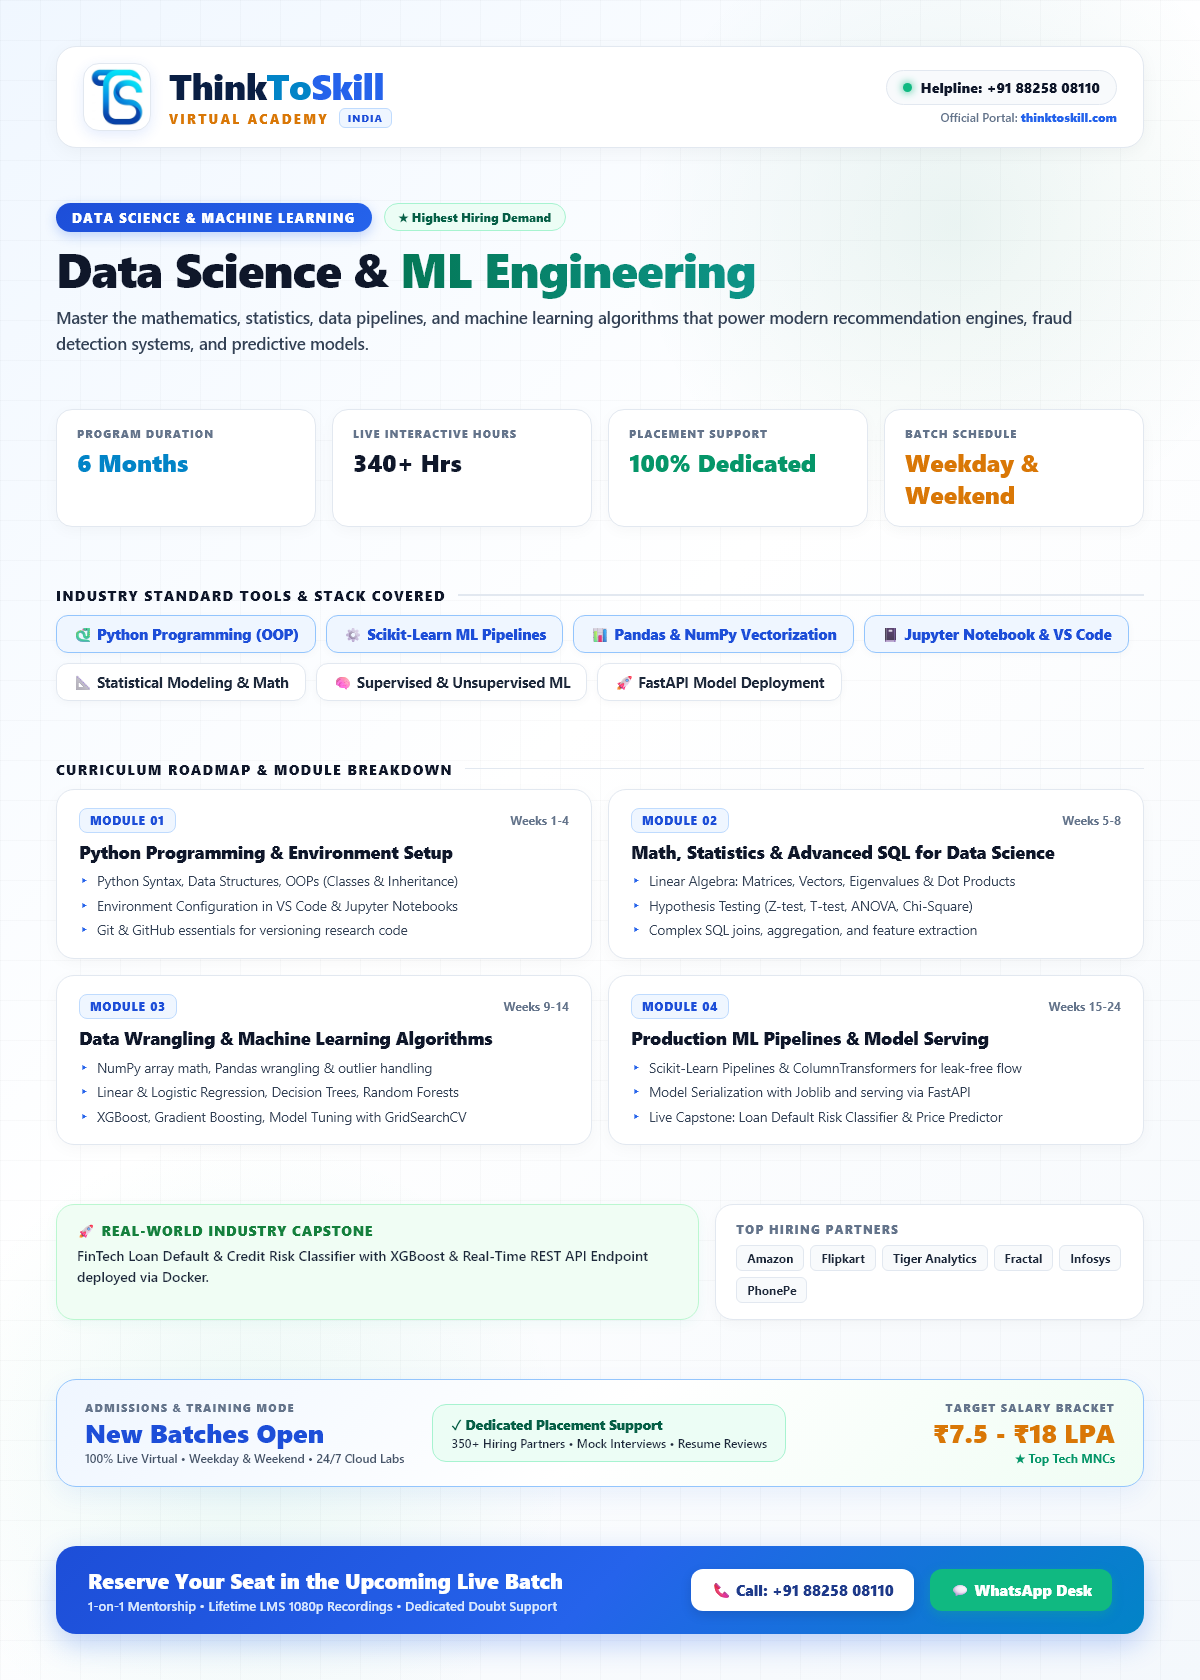
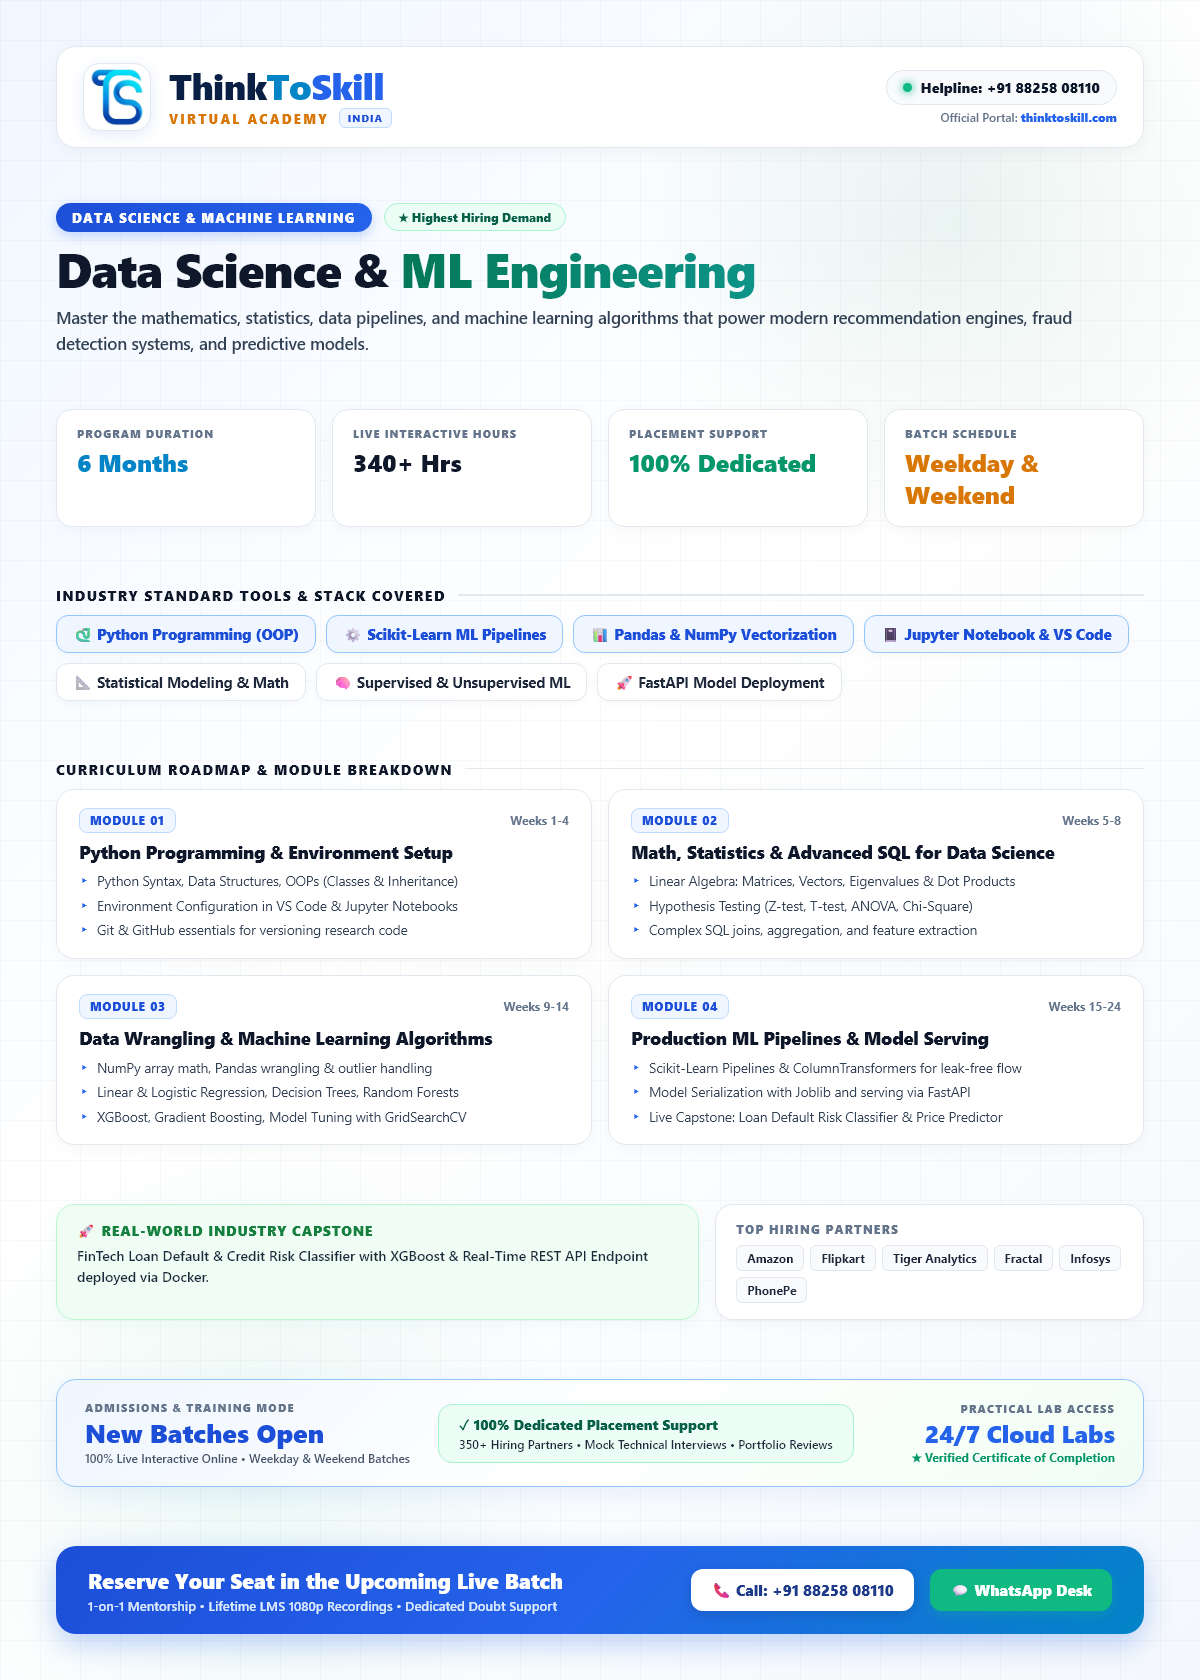
Update brochures: remove salary benchmark brackets and milestone pay text, and bump asset cache version to 20261126.4

Changed region(s): [[0.37, 0.8357, 0.6783, 0.8667], [0.7708, 0.8357, 0.925, 0.8976]]

diff --git a/brochures.html b/brochures.html
@@ -33,7 +33,7 @@
       }
     }
   </script>
-  <link rel="stylesheet" href="css/custom.css?v=20261126.3" />
+  <link rel="stylesheet" href="css/custom.css?v=20261126.4" />
 
   <!-- Schema.org JSON-LD Structured Data for Brochures -->
   <script type="application/ld+json">
@@ -273,7 +273,7 @@
       <!-- 1. Data Analytics & BI -->
       <div class="brochure-card bg-white rounded-3xl overflow-hidden border border-slate-200/90 shadow-md hover:shadow-xl transition-all duration-300 flex flex-col group" data-category="data">
         <div class="relative bg-slate-100 overflow-hidden aspect-[3/4] cursor-pointer border-b border-slate-100" onclick="openLightbox('assets/brochures/brochure-data-analytics.png', 'Data Analytics & Business Intelligence Masterclass')">
-          <img src="assets/brochures/brochure-data-analytics.png?v=20261126.3" alt="Data Analytics & BI Brochure" class="w-full h-full object-cover group-hover:scale-105 transition-transform duration-500" loading="lazy" />
+          <img src="assets/brochures/brochure-data-analytics.png?v=20261126.4" alt="Data Analytics & BI Brochure" class="w-full h-full object-cover group-hover:scale-105 transition-transform duration-500" loading="lazy" />
           <div class="absolute inset-0 bg-gradient-to-t from-slate-950/80 via-transparent to-transparent opacity-0 group-hover:opacity-100 transition-opacity flex items-end p-6">
             <span class="inline-flex items-center gap-2 text-white font-bold text-xs bg-blue-600/90 px-4 py-2 rounded-xl backdrop-blur-md">
               <svg class="w-4 h-4" fill="none" stroke="currentColor" viewBox="0 0 24 24"><path stroke-linecap="round" stroke-linejoin="round" stroke-width="2" d="M15 12a3 3 0 11-6 0 3 3 0 016 0z"></path><path stroke-linecap="round" stroke-linejoin="round" stroke-width="2" d="M2.458 12C3.732 7.943 7.523 5 12 5c4.478 0 8.268 2.943 9.542 7-1.274 4.057-5.064 7-9.542 7-4.477 0-8.268-2.943-9.542-7z"></path></svg>
@@ -312,7 +312,7 @@
       <!-- 2. Data Science & ML -->
       <div class="brochure-card bg-white rounded-3xl overflow-hidden border border-slate-200/90 shadow-md hover:shadow-xl transition-all duration-300 flex flex-col group" data-category="ai">
         <div class="relative bg-slate-100 overflow-hidden aspect-[3/4] cursor-pointer border-b border-slate-100" onclick="openLightbox('assets/brochures/brochure-data-science.png', 'Data Science & Machine Learning Engineering Program')">
-          <img src="assets/brochures/brochure-data-science.png?v=20261126.3" alt="Data Science & ML Brochure" class="w-full h-full object-cover group-hover:scale-105 transition-transform duration-500" loading="lazy" />
+          <img src="assets/brochures/brochure-data-science.png?v=20261126.4" alt="Data Science & ML Brochure" class="w-full h-full object-cover group-hover:scale-105 transition-transform duration-500" loading="lazy" />
           <div class="absolute inset-0 bg-gradient-to-t from-slate-950/80 via-transparent to-transparent opacity-0 group-hover:opacity-100 transition-opacity flex items-end p-6">
             <span class="inline-flex items-center gap-2 text-white font-bold text-xs bg-emerald-600/90 px-4 py-2 rounded-xl backdrop-blur-md">
               <svg class="w-4 h-4" fill="none" stroke="currentColor" viewBox="0 0 24 24"><path stroke-linecap="round" stroke-linejoin="round" stroke-width="2" d="M15 12a3 3 0 11-6 0 3 3 0 016 0z"></path><path stroke-linecap="round" stroke-linejoin="round" stroke-width="2" d="M2.458 12C3.732 7.943 7.523 5 12 5c4.478 0 8.268 2.943 9.542 7-1.274 4.057-5.064 7-9.542 7-4.477 0-8.268-2.943-9.542-7z"></path></svg>
@@ -351,7 +351,7 @@
       <!-- 3. AI & Deep Learning -->
       <div class="brochure-card bg-white rounded-3xl overflow-hidden border border-slate-200/90 shadow-md hover:shadow-xl transition-all duration-300 flex flex-col group" data-category="ai">
         <div class="relative bg-slate-100 overflow-hidden aspect-[3/4] cursor-pointer border-b border-slate-100" onclick="openLightbox('assets/brochures/brochure-ai-deep-learning.png', 'Artificial Intelligence & Deep Learning Master\'s')">
-          <img src="assets/brochures/brochure-ai-deep-learning.png?v=20261126.3" alt="AI & Deep Learning Brochure" class="w-full h-full object-cover group-hover:scale-105 transition-transform duration-500" loading="lazy" />
+          <img src="assets/brochures/brochure-ai-deep-learning.png?v=20261126.4" alt="AI & Deep Learning Brochure" class="w-full h-full object-cover group-hover:scale-105 transition-transform duration-500" loading="lazy" />
           <div class="absolute inset-0 bg-gradient-to-t from-slate-950/80 via-transparent to-transparent opacity-0 group-hover:opacity-100 transition-opacity flex items-end p-6">
             <span class="inline-flex items-center gap-2 text-white font-bold text-xs bg-purple-600/90 px-4 py-2 rounded-xl backdrop-blur-md">
               <svg class="w-4 h-4" fill="none" stroke="currentColor" viewBox="0 0 24 24"><path stroke-linecap="round" stroke-linejoin="round" stroke-width="2" d="M15 12a3 3 0 11-6 0 3 3 0 016 0z"></path><path stroke-linecap="round" stroke-linejoin="round" stroke-width="2" d="M2.458 12C3.732 7.943 7.523 5 12 5c4.478 0 8.268 2.943 9.542 7-1.274 4.057-5.064 7-9.542 7-4.477 0-8.268-2.943-9.542-7z"></path></svg>
@@ -390,7 +390,7 @@
       <!-- 4. Cloud Computing & DevOps -->
       <div class="brochure-card bg-white rounded-3xl overflow-hidden border border-slate-200/90 shadow-md hover:shadow-xl transition-all duration-300 flex flex-col group" data-category="cloud">
         <div class="relative bg-slate-100 overflow-hidden aspect-[3/4] cursor-pointer border-b border-slate-100" onclick="openLightbox('assets/brochures/brochure-cloud-devops.png', 'Cloud Computing (AWS) & DevOps Engineering Bootcamp')">
-          <img src="assets/brochures/brochure-cloud-devops.png?v=20261126.3" alt="Cloud & DevOps Brochure" class="w-full h-full object-cover group-hover:scale-105 transition-transform duration-500" loading="lazy" />
+          <img src="assets/brochures/brochure-cloud-devops.png?v=20261126.4" alt="Cloud & DevOps Brochure" class="w-full h-full object-cover group-hover:scale-105 transition-transform duration-500" loading="lazy" />
           <div class="absolute inset-0 bg-gradient-to-t from-slate-950/80 via-transparent to-transparent opacity-0 group-hover:opacity-100 transition-opacity flex items-end p-6">
             <span class="inline-flex items-center gap-2 text-white font-bold text-xs bg-amber-600/90 px-4 py-2 rounded-xl backdrop-blur-md">
               <svg class="w-4 h-4" fill="none" stroke="currentColor" viewBox="0 0 24 24"><path stroke-linecap="round" stroke-linejoin="round" stroke-width="2" d="M15 12a3 3 0 11-6 0 3 3 0 016 0z"></path><path stroke-linecap="round" stroke-linejoin="round" stroke-width="2" d="M2.458 12C3.732 7.943 7.523 5 12 5c4.478 0 8.268 2.943 9.542 7-1.274 4.057-5.064 7-9.542 7-4.477 0-8.268-2.943-9.542-7z"></path></svg>
@@ -429,7 +429,7 @@
       <!-- 5. Python Programming & SQL -->
       <div class="brochure-card bg-white rounded-3xl overflow-hidden border border-slate-200/90 shadow-md hover:shadow-xl transition-all duration-300 flex flex-col group" data-category="python">
         <div class="relative bg-slate-100 overflow-hidden aspect-[3/4] cursor-pointer border-b border-slate-100" onclick="openLightbox('assets/brochures/brochure-python-sql.png', 'Python Programming & SQL Databases Foundation Course')">
-          <img src="assets/brochures/brochure-python-sql.png?v=20261126.3" alt="Python & SQL Brochure" class="w-full h-full object-cover group-hover:scale-105 transition-transform duration-500" loading="lazy" />
+          <img src="assets/brochures/brochure-python-sql.png?v=20261126.4" alt="Python & SQL Brochure" class="w-full h-full object-cover group-hover:scale-105 transition-transform duration-500" loading="lazy" />
           <div class="absolute inset-0 bg-gradient-to-t from-slate-950/80 via-transparent to-transparent opacity-0 group-hover:opacity-100 transition-opacity flex items-end p-6">
             <span class="inline-flex items-center gap-2 text-white font-bold text-xs bg-cyan-600/90 px-4 py-2 rounded-xl backdrop-blur-md">
               <svg class="w-4 h-4" fill="none" stroke="currentColor" viewBox="0 0 24 24"><path stroke-linecap="round" stroke-linejoin="round" stroke-width="2" d="M15 12a3 3 0 11-6 0 3 3 0 016 0z"></path><path stroke-linecap="round" stroke-linejoin="round" stroke-width="2" d="M2.458 12C3.732 7.943 7.523 5 12 5c4.478 0 8.268 2.943 9.542 7-1.274 4.057-5.064 7-9.542 7-4.477 0-8.268-2.943-9.542-7z"></path></svg>
@@ -468,7 +468,7 @@
       <!-- 6. Executive Diploma Architect -->
       <div class="brochure-card bg-white rounded-3xl overflow-hidden border border-slate-200/90 shadow-md hover:shadow-xl transition-all duration-300 flex flex-col group" data-category="ai">
         <div class="relative bg-slate-100 overflow-hidden aspect-[3/4] cursor-pointer border-b border-slate-100" onclick="openLightbox('assets/brochures/brochure-diploma-architect.png', 'Executive Diploma in AI, Data Science & Cloud DevOps Architect')">
-          <img src="assets/brochures/brochure-diploma-architect.png?v=20261126.3" alt="Executive Diploma Architect Brochure" class="w-full h-full object-cover group-hover:scale-105 transition-transform duration-500" loading="lazy" />
+          <img src="assets/brochures/brochure-diploma-architect.png?v=20261126.4" alt="Executive Diploma Architect Brochure" class="w-full h-full object-cover group-hover:scale-105 transition-transform duration-500" loading="lazy" />
           <div class="absolute inset-0 bg-gradient-to-t from-slate-950/80 via-transparent to-transparent opacity-0 group-hover:opacity-100 transition-opacity flex items-end p-6">
             <span class="inline-flex items-center gap-2 text-white font-bold text-xs bg-amber-600/90 px-4 py-2 rounded-xl backdrop-blur-md">
               <svg class="w-4 h-4" fill="none" stroke="currentColor" viewBox="0 0 24 24"><path stroke-linecap="round" stroke-linejoin="round" stroke-width="2" d="M15 12a3 3 0 11-6 0 3 3 0 016 0z"></path><path stroke-linecap="round" stroke-linejoin="round" stroke-width="2" d="M2.458 12C3.732 7.943 7.523 5 12 5c4.478 0 8.268 2.943 9.542 7-1.274 4.057-5.064 7-9.542 7-4.477 0-8.268-2.943-9.542-7z"></path></svg>
@@ -507,7 +507,7 @@
       <!-- 7. SAP S/4HANA Finance (FI/CO) -->
       <div class="brochure-card bg-white rounded-3xl overflow-hidden border border-slate-200/90 shadow-md hover:shadow-xl transition-all duration-300 flex flex-col group" data-category="sap">
         <div class="relative bg-slate-100 overflow-hidden aspect-[3/4] cursor-pointer border-b border-slate-100" onclick="openLightbox('assets/brochures/brochure-sap-finance.png', 'SAP S/4HANA Finance (FI/CO) Consultant Program')">
-          <img src="assets/brochures/brochure-sap-finance.png?v=20261126.3" alt="SAP Finance Brochure" class="w-full h-full object-cover group-hover:scale-105 transition-transform duration-500" loading="lazy" />
+          <img src="assets/brochures/brochure-sap-finance.png?v=20261126.4" alt="SAP Finance Brochure" class="w-full h-full object-cover group-hover:scale-105 transition-transform duration-500" loading="lazy" />
           <div class="absolute inset-0 bg-gradient-to-t from-slate-950/80 via-transparent to-transparent opacity-0 group-hover:opacity-100 transition-opacity flex items-end p-6">
             <span class="inline-flex items-center gap-2 text-white font-bold text-xs bg-blue-600/90 px-4 py-2 rounded-xl backdrop-blur-md">
               <svg class="w-4 h-4" fill="none" stroke="currentColor" viewBox="0 0 24 24"><path stroke-linecap="round" stroke-linejoin="round" stroke-width="2" d="M15 12a3 3 0 11-6 0 3 3 0 016 0z"></path><path stroke-linecap="round" stroke-linejoin="round" stroke-width="2" d="M2.458 12C3.732 7.943 7.523 5 12 5c4.478 0 8.268 2.943 9.542 7-1.274 4.057-5.064 7-9.542 7-4.477 0-8.268-2.943-9.542-7z"></path></svg>
@@ -546,7 +546,7 @@
       <!-- 8. SAP S/4HANA MM -->
       <div class="brochure-card bg-white rounded-3xl overflow-hidden border border-slate-200/90 shadow-md hover:shadow-xl transition-all duration-300 flex flex-col group" data-category="sap">
         <div class="relative bg-slate-100 overflow-hidden aspect-[3/4] cursor-pointer border-b border-slate-100" onclick="openLightbox('assets/brochures/brochure-sap-mm.png', 'SAP S/4HANA Materials Management (MM) Program')">
-          <img src="assets/brochures/brochure-sap-mm.png?v=20261126.3" alt="SAP MM Brochure" class="w-full h-full object-cover group-hover:scale-105 transition-transform duration-500" loading="lazy" />
+          <img src="assets/brochures/brochure-sap-mm.png?v=20261126.4" alt="SAP MM Brochure" class="w-full h-full object-cover group-hover:scale-105 transition-transform duration-500" loading="lazy" />
           <div class="absolute inset-0 bg-gradient-to-t from-slate-950/80 via-transparent to-transparent opacity-0 group-hover:opacity-100 transition-opacity flex items-end p-6">
             <span class="inline-flex items-center gap-2 text-white font-bold text-xs bg-emerald-600/90 px-4 py-2 rounded-xl backdrop-blur-md">
               <svg class="w-4 h-4" fill="none" stroke="currentColor" viewBox="0 0 24 24"><path stroke-linecap="round" stroke-linejoin="round" stroke-width="2" d="M15 12a3 3 0 11-6 0 3 3 0 016 0z"></path><path stroke-linecap="round" stroke-linejoin="round" stroke-width="2" d="M2.458 12C3.732 7.943 7.523 5 12 5c4.478 0 8.268 2.943 9.542 7-1.274 4.057-5.064 7-9.542 7-4.477 0-8.268-2.943-9.542-7z"></path></svg>
@@ -585,7 +585,7 @@
       <!-- 9. SAP S/4HANA Integrated ERP -->
       <div class="brochure-card bg-white rounded-3xl overflow-hidden border border-slate-200/90 shadow-md hover:shadow-xl transition-all duration-300 flex flex-col group" data-category="sap">
         <div class="relative bg-slate-100 overflow-hidden aspect-[3/4] cursor-pointer border-b border-slate-100" onclick="openLightbox('assets/brochures/brochure-sap-integrated.png', 'SAP S/4HANA Integrated ERP (Finance & MM)')">
-          <img src="assets/brochures/brochure-sap-integrated.png?v=20261126.3" alt="SAP Integrated ERP Brochure" class="w-full h-full object-cover group-hover:scale-105 transition-transform duration-500" loading="lazy" />
+          <img src="assets/brochures/brochure-sap-integrated.png?v=20261126.4" alt="SAP Integrated ERP Brochure" class="w-full h-full object-cover group-hover:scale-105 transition-transform duration-500" loading="lazy" />
           <div class="absolute inset-0 bg-gradient-to-t from-slate-950/80 via-transparent to-transparent opacity-0 group-hover:opacity-100 transition-opacity flex items-end p-6">
             <span class="inline-flex items-center gap-2 text-white font-bold text-xs bg-indigo-600/90 px-4 py-2 rounded-xl backdrop-blur-md">
               <svg class="w-4 h-4" fill="none" stroke="currentColor" viewBox="0 0 24 24"><path stroke-linecap="round" stroke-linejoin="round" stroke-width="2" d="M15 12a3 3 0 11-6 0 3 3 0 016 0z"></path><path stroke-linecap="round" stroke-linejoin="round" stroke-width="2" d="M2.458 12C3.732 7.943 7.523 5 12 5c4.478 0 8.268 2.943 9.542 7-1.274 4.057-5.064 7-9.542 7-4.477 0-8.268-2.943-9.542-7z"></path></svg>
@@ -703,8 +703,8 @@
   <div id="toast-container"></div>
 
   <!-- Script for Lightbox & Filters -->
-  <script src="js/courses-data.js?v=20261126.3"></script>
-  <script src="js/main.js?v=20261126.3"></script>
+  <script src="js/courses-data.js?v=20261126.4"></script>
+  <script src="js/main.js?v=20261126.4"></script>
   <script>
     function filterBrochures(category) {
       const cards = document.querySelectorAll('.brochure-card');
@@ -777,4 +777,5 @@
   </script>
 </body>
 </html>
+
 

diff --git a/index.html b/index.html
@@ -48,7 +48,7 @@
   </script>
 
   <!-- Custom CSS -->
-  <link rel="stylesheet" href="css/custom.css?v=20261126.3" />
+  <link rel="stylesheet" href="css/custom.css?v=20261126.4" />
 
   <!-- Schema.org JSON-LD Structured Data for SEO -->
   <script type="application/ld+json">
@@ -1185,8 +1185,8 @@
   <div id="toast-container"></div>
 
   <!-- Scripts -->
-  <script src="js/courses-data.js?v=20261126.3"></script>
-  <script src="js/main.js?v=20261126.3"></script>
+  <script src="js/courses-data.js?v=20261126.4"></script>
+  <script src="js/main.js?v=20261126.4"></script>
 
   <script>
     // Student Registration Details submit handler
@@ -1266,4 +1266,5 @@
   </script>
 </body>
 </html>
+
 

diff --git a/404.html b/404.html
@@ -14,7 +14,7 @@
   <meta name="twitter:image" content="https://thinktoskill.com/assets/thinktoskill-ts-icon.jpg" />
   <link rel="icon" type="image/jpeg" href="assets/thinktoskill-ts-icon.jpg" />
   <script src="https://cdn.tailwindcss.com"></script>
-  <link rel="stylesheet" href="css/custom.css?v=20261126.3" />
+  <link rel="stylesheet" href="css/custom.css?v=20261126.4" />
 </head>
 <body class="bg-slate-50 text-slate-800 antialiased min-h-screen flex items-center justify-center">
   <div class="text-center max-w-lg mx-auto px-6 py-20">
@@ -29,4 +29,5 @@
   </div>
 </body>
 </html>
+
 

diff --git a/courses.html b/courses.html
@@ -33,7 +33,7 @@
       }
     }
   </script>
-  <link rel="stylesheet" href="css/custom.css?v=20261126.3" />
+  <link rel="stylesheet" href="css/custom.css?v=20261126.4" />
 
   <!-- Schema.org JSON-LD Structured Data for Programs -->
   <script type="application/ld+json">
@@ -504,8 +504,9 @@
   </footer>
 
   <div id="toast-container"></div>
-  <script src="js/courses-data.js?v=20261126.3"></script>
-  <script src="js/main.js?v=20261126.3"></script>
+  <script src="js/courses-data.js?v=20261126.4"></script>
+  <script src="js/main.js?v=20261126.4"></script>
 </body>
 </html>
+
 

diff --git a/admissions.html b/admissions.html
@@ -33,7 +33,7 @@
       }
     }
   </script>
-  <link rel="stylesheet" href="css/custom.css?v=20261126.3" />
+  <link rel="stylesheet" href="css/custom.css?v=20261126.4" />
 
   <!-- Schema.org JSON-LD Structured Data for Admissions -->
   <script type="application/ld+json">
@@ -452,8 +452,9 @@
   </a>
 
   <div id="toast-container"></div>
-  <script src="js/courses-data.js?v=20261126.3"></script>
-  <script src="js/main.js?v=20261126.3"></script>
+  <script src="js/courses-data.js?v=20261126.4"></script>
+  <script src="js/main.js?v=20261126.4"></script>
 </body>
 </html>
+
 

diff --git a/privacy.html b/privacy.html
@@ -20,7 +20,7 @@
   <meta name="twitter:description" content="Privacy Policy for ThinkToSkill Virtual Academy - how we collect, use, and protect your personal information." />
   <meta name="twitter:image" content="https://thinktoskill.com/assets/thinktoskill-ts-icon.jpg" />
   <script src="https://cdn.tailwindcss.com"></script>
-  <link rel="stylesheet" href="css/custom.css?v=20261126.3" />
+  <link rel="stylesheet" href="css/custom.css?v=20261126.4" />
 </head>
 <body class="bg-slate-50 text-slate-800 antialiased">
 
@@ -89,4 +89,5 @@
   </footer>
 </body>
 </html>
+
 

diff --git a/refund.html b/refund.html
@@ -20,7 +20,7 @@
   <meta name="twitter:description" content="7-Day 100% Money-Back Guarantee and Cancellation Policy for ThinkToSkill Virtual Academy India." />
   <meta name="twitter:image" content="https://thinktoskill.com/assets/thinktoskill-ts-icon.jpg" />
   <script src="https://cdn.tailwindcss.com"></script>
-  <link rel="stylesheet" href="css/custom.css?v=20261126.3" />
+  <link rel="stylesheet" href="css/custom.css?v=20261126.4" />
 </head>
 <body class="bg-slate-50 text-slate-800 antialiased">
 
@@ -82,4 +82,5 @@
   </footer>
 </body>
 </html>
+
 

diff --git a/placement-policy.html b/placement-policy.html
@@ -20,7 +20,7 @@
   <meta name="twitter:description" content="Placement Assistance Policy for ThinkToSkill Virtual Academy India." />
   <meta name="twitter:image" content="https://thinktoskill.com/assets/thinktoskill-ts-icon.jpg" />
   <script src="https://cdn.tailwindcss.com"></script>
-  <link rel="stylesheet" href="css/custom.css?v=20261126.3" />
+  <link rel="stylesheet" href="css/custom.css?v=20261126.4" />
 </head>
 <body class="bg-slate-50 text-slate-800 antialiased">
 
@@ -80,4 +80,5 @@
   </footer>
 </body>
 </html>
+
 

diff --git a/terms.html b/terms.html
@@ -20,7 +20,7 @@
   <meta name="twitter:description" content="Terms of Service for ThinkToSkill Virtual Academy India." />
   <meta name="twitter:image" content="https://thinktoskill.com/assets/thinktoskill-ts-icon.jpg" />
   <script src="https://cdn.tailwindcss.com"></script>
-  <link rel="stylesheet" href="css/custom.css?v=20261126.3" />
+  <link rel="stylesheet" href="css/custom.css?v=20261126.4" />
 </head>
 <body class="bg-slate-50 text-slate-800 antialiased">
 
@@ -78,4 +78,5 @@
   </footer>
 </body>
 </html>
+
 
